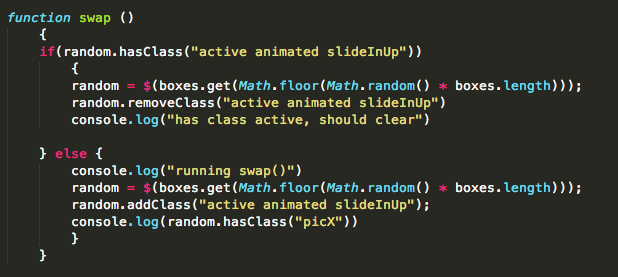
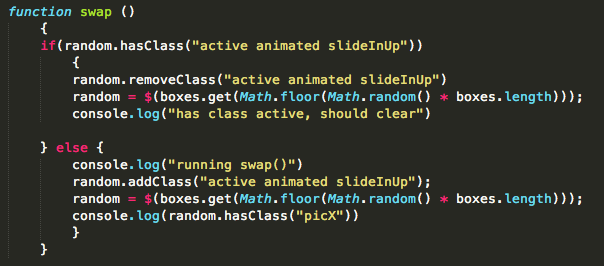
times and stops and easies

diff --git a/main.js b/main.js
@@ -1,10 +1,11 @@
-var boxes = $(".picX");
 var active = $(".active");
+var boxes = $(".picX")
 var blank = $(".blank")
 var display= 0;
 var s=30
 var q
 var interval;
+var active = $(".active");
 var random = $(boxes.get(Math.floor(Math.random() * boxes.length)));
 var gameLevel;
 var easy;
@@ -58,14 +59,14 @@ function swap ()
 	{
 	if(random.hasClass("active animated slideInUp"))
 		{
-		random = $(boxes.get(Math.floor(Math.random() * boxes.length)));
 		random.removeClass("active animated slideInUp")
+		random = $(boxes.get(Math.floor(Math.random() * boxes.length)));
 		console.log("has class active, should clear")
 
 	} else {
 		console.log("running swap()")
-		random = $(boxes.get(Math.floor(Math.random() * boxes.length)));
 		random.addClass("active animated slideInUp");
+		random = $(boxes.get(Math.floor(Math.random() * boxes.length)));
 		console.log(random.hasClass("picX"))
 		}
 	}
@@ -74,11 +75,12 @@ function sads ()
 	{
 	if(random.hasClass("sad animated slideInUp"))
 		{
+		random.removeClass("sad animated slideInUp")	
 		random = $(boxes.get(Math.floor(Math.random() * boxes.length)));
-		random.removeClass("sad animated slideInUp")
 		console.log("why isn't this clearing")
 
 	} else {
+		random.addClass("sad animated slideInUp");
 		random = $(boxes.get(Math.floor(Math.random() * boxes.length)));
 		random.addClass("sad animated slideInUp");
 		console.log("running swap()")
@@ -90,9 +92,9 @@ function dals ()
 	{
 	if(random.hasClass("dalai animated slideInUp"))
 		{
+		random.removeClass("dalai animated slideInUp")
 		random = $(boxes.get(Math.floor(Math.random() * boxes.length)));
 		console.log(random.hasClass("picX"))
-		random.removeClass("dalai animated slideInUp")
 	} else {
 		random.addClass("dalai animated slideInUp");
 		console.log("running swap()")
@@ -107,11 +109,11 @@ function clears ()
 	if(random.hasClass("dalai animated slideInUp"))
 		{
 		console.log("this should clear")
-		random = $(boxes.get(Math.floor(Math.random() * boxes.length)));
 		random.removeClass("dalai animated slideInUp")
+		random = $(boxes.get(Math.floor(Math.random() * boxes.length)));
 	} else {
-		random = $(boxes.get(Math.floor(Math.random() * boxes.length)));
 		random.removeClass("dalai animated slideInUp")
+		random = $(boxes.get(Math.floor(Math.random() * boxes.length)));
 		console.log("this should also clear")
 		}
 	}

diff --git a/style.css b/style.css
@@ -28,7 +28,6 @@ body {
 	width:100px;
 	padding:1px;
 	display:inline-block;
-	background-color: red;
 	background-image: url(blank100.png);
 }
 

diff --git a/readme/readme.md b/readme/readme.md
@@ -6,22 +6,30 @@ Name of the game: Whack a Mole
 
 Objective: Whack as many dictators as quickly as possible within the 30 second time limit. Minus 10 points for hitting the Dalai Lama!
 
-1. Began constructing the game with a simple layout of 8 x 3 squares and assigned each box to an array.
+1. Began constructing the game with a simple layout of 8 x 3 squares.
 
 ![alt tag](https://github.com/ajchan11/projectOne/blob/master/readme/outline2.png)
 
-2. Used a random number generator that cycles through the array of squares, randomly choosing one. The chosen box is given an additional class name. 
+2. Used a random number generator that cycles through the number of squares, randomly choosing one. The chosen box is given a new variable "random". 
+
+![alt tag](https://github.com/ajchan11/projectOne/blob/master/readme/boxes.png)
+
+3. Created a new class with a background image of my "mole".
 
 ![alt tag](https://github.com/ajchan11/projectOne/blob/master/readme/active.png)
+
+4. Created a function that had an if/else statement. If the random box had the class "active", the box had the class "active" removed and a new global random variable was assigned to random. Else, the class "active" was given to the random box and a new global random variable was assigned. 
+
 ![alt tag](https://github.com/ajchan11/projectOne/blob/master/readme/swap.png)
 
-4. Game will keep track of correctly clicked boxes and will change in speed depending on difficulty (and score if I figure out how to do that).
+4. Game keep track of time by creating a function with a setTimeout with 1000ms. The function was constantly looped and the variable "s" was redefined to represent a count down clock in which 1 was subtracted from s. If s < 1, the gameStop function was called.
 
-5. Game will end when player mis-clicks and the appropriate box is not clicked. 
+![alt tag](https://github.com/ajchan11/projectOne/blob/master/readme/time.png)
 
-6. User Stories 
-  1. The 9 year old boy wants to play an arcade game to get a new high score.
-  2. The college student wants to kill time while waiting for next class to start.
-  3. The young entrepreneur wants to figure out how he can monoitize a family game.
+5. The function gameStop cleared the timeOut number given in setTimeout as well as cleared the game interval that would be called. The body element was given the class "gameOver" which displayed the gameOver sign, and all other classes were removed. the "display" score was pushed into an array "highScore" which had a default var highScore = [0]. The timer was replaced with "Time has finished"
 
+![alt tag](https://github.com/ajchan11/projectOne/blob/master/readme/stop.png)
 
+6. The game begins when a player clicks a mode. Each mode begins with removing the class "gameOver" from the body, the "s" is reset to 30. the "display" score is reset to 0 and the global interval variable is definied with the function "startGame" and the time frequency in which the function is constantly called. The function "gameCount" is called and the timer begins. 
+
+![alt tag](https://github.com/ajchan11/projectOne/blob/master/readme/easy.png)
